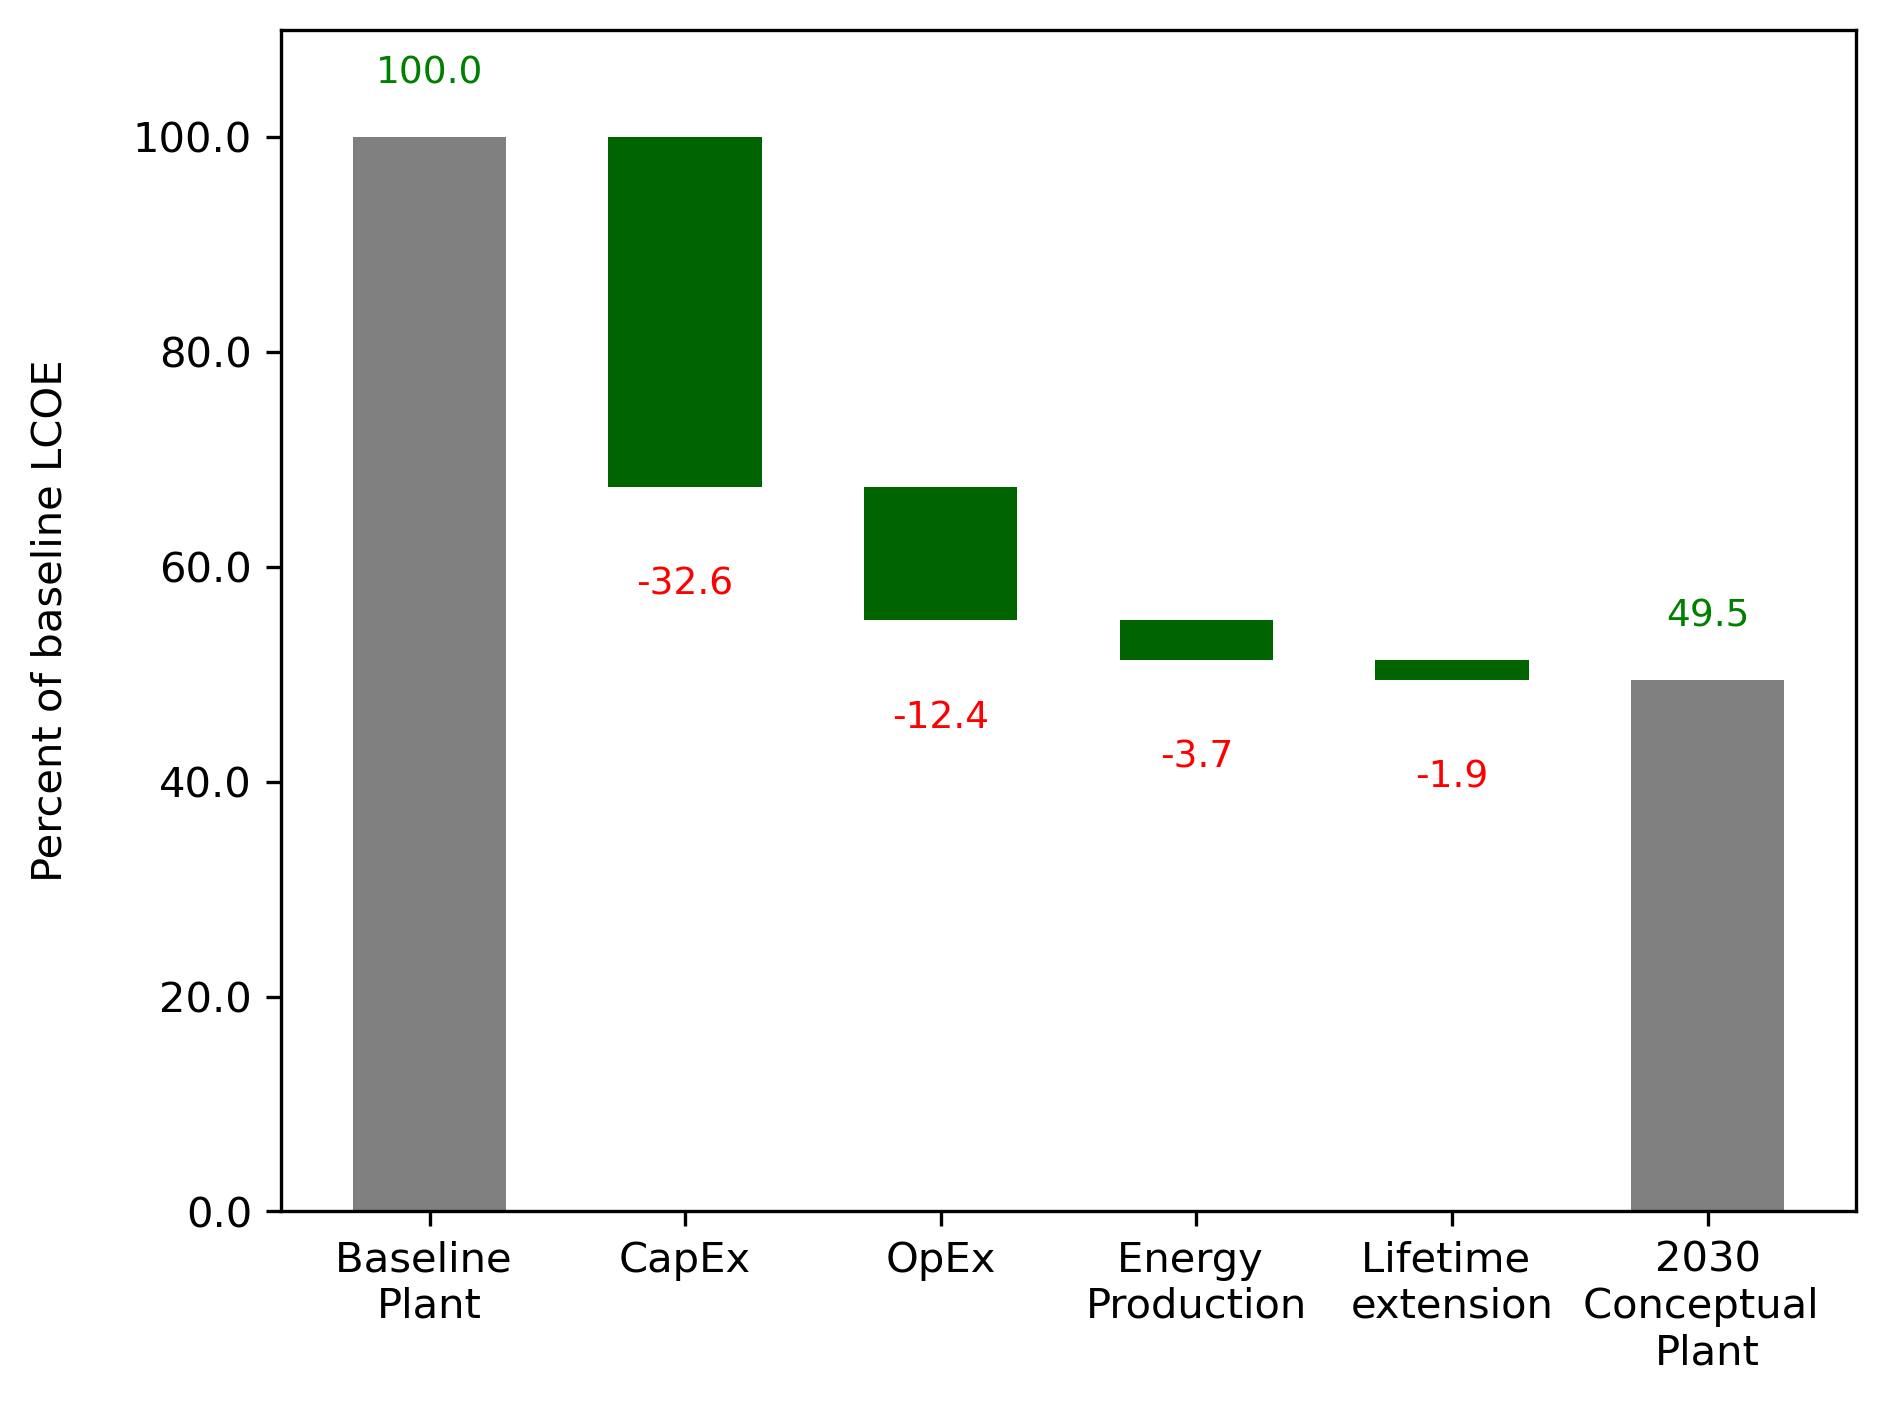
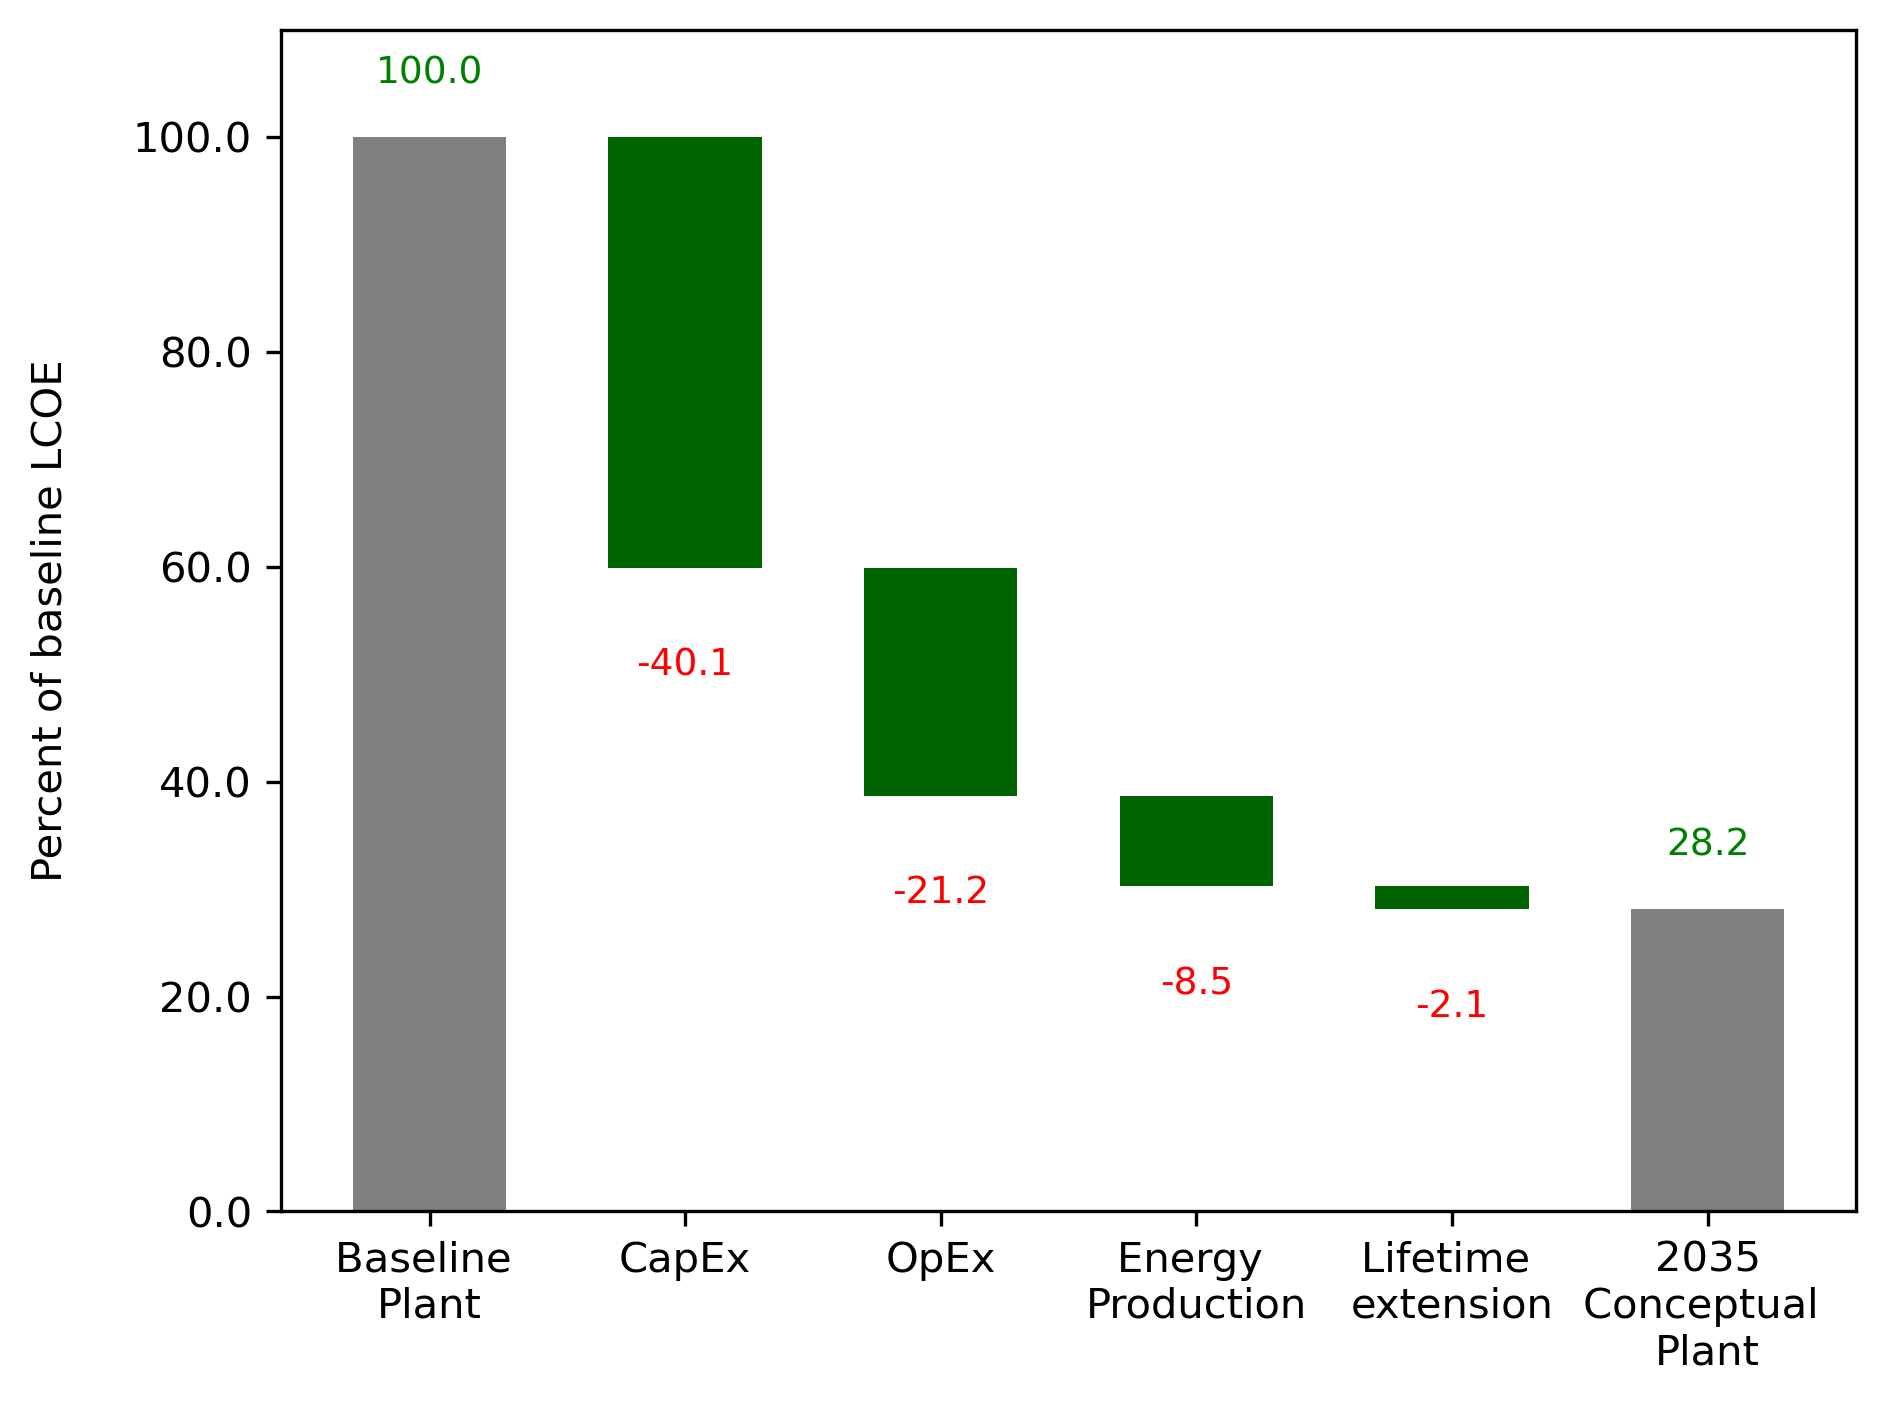
Added LCOE breakdown for OCC and Capex.  Added input for construction financing

diff --git a/analysis/LCOE_waterfall.py b/analysis/LCOE_waterfall.py
@@ -17,10 +17,10 @@ if __name__ == '__main__':
         lcoe = 1000 * (f * c + o) / a
         return lcoe
 
-    def delta_lcoe_calc(df, lcoe_i, capex, opex, aep, fcr, ind):  
+    def delta_lcoe_calc(df, lcoe_i, capex, opex, aep, fcr, ind):
 
         if ind == 'Min capex':
-            d_capex = df[(df['Year']==year2)]['Min capex'].to_numpy()[0] 
+            d_capex = df[(df['Year']==year2)]['Min capex'].to_numpy()[0]
             lcoe_f = lcoe_calc(d_capex, opex, aep, fcr)
             d_lcoe = lcoe_i - lcoe_f
             ind_f = d_capex
@@ -48,18 +48,20 @@ if __name__ == '__main__':
 
     delta_lcoe = {}
 
-    capex = df[(df['Year']==year1)]['Min capex'].to_numpy()[0] 
+    capex = df[(df['Year']==year1)]['Min capex'].to_numpy()[0]
     opex = df[(df['Year']==year1)]['Opex'].to_numpy()[0]
     aep = df[(df['Year']==year1)]['AEP'].to_numpy()[0]
     fcr = df[(df['Year'] == year1)]['FCR'].to_numpy()[0]
 
     lcoe_0 = lcoe_calc(capex, opex, aep, fcr)
-    
+
     delta_lcoe['Capex'], lcoe_dcapex, dcapex = delta_lcoe_calc(df, lcoe_0, capex, opex, aep, fcr, 'Min capex')
     delta_lcoe['Opex'], lcoe_dopex, dopex = delta_lcoe_calc(df, lcoe_dcapex, dcapex, opex, aep, fcr,'Opex')
     delta_lcoe['AEP'], lcoe_daep, daep = delta_lcoe_calc(df, lcoe_dopex, dcapex, dopex, aep, fcr,'AEP')
     delta_lcoe['FCR'], lcoe_dfcr, dfcr = delta_lcoe_calc(df, lcoe_daep,dcapex, dopex, daep, fcr, 'FCR')
 
+    print('initial lcoe', lcoe_0, 'initial capex', capex)
+    print('final capex',  dcapex)
     print('final lcoe', lcoe_dfcr)
 
     baseline_lcoe = df[(df['Year'] == year1)]['Min LCOE'].to_numpy()[0]
@@ -76,8 +78,8 @@ if __name__ == '__main__':
         -delta_lcoe['AEP'],
         -delta_lcoe['FCR']
     ] / (.01 * baseline_lcoe)
-    
-    
+
+
 
     waterfall_chart.plot(['Baseline \nPlant','CapEx', 'OpEx', 'Energy \nProduction', 'Lifetime \nextension'], waterfall,
         net_label=str(year2) + '\nConceptual \nPlant',
@@ -89,7 +91,7 @@ if __name__ == '__main__':
         )
 
     plt.ylim([0, 225])
-    
+
     plt.savefig('results/waterfall.png', dpi=300, bbox_inches='tight')
 
     waterfall_chart.plot(['Baseline \nPlant','CapEx', 'OpEx', 'Energy \nProduction', 'Lifetime \nextension'], waterfall_percent,
@@ -102,5 +104,5 @@ if __name__ == '__main__':
         )
 
     plt.ylim([0, 110])
-    
+
     plt.savefig('results/waterfall_percent.png', dpi=300, bbox_inches='tight')
